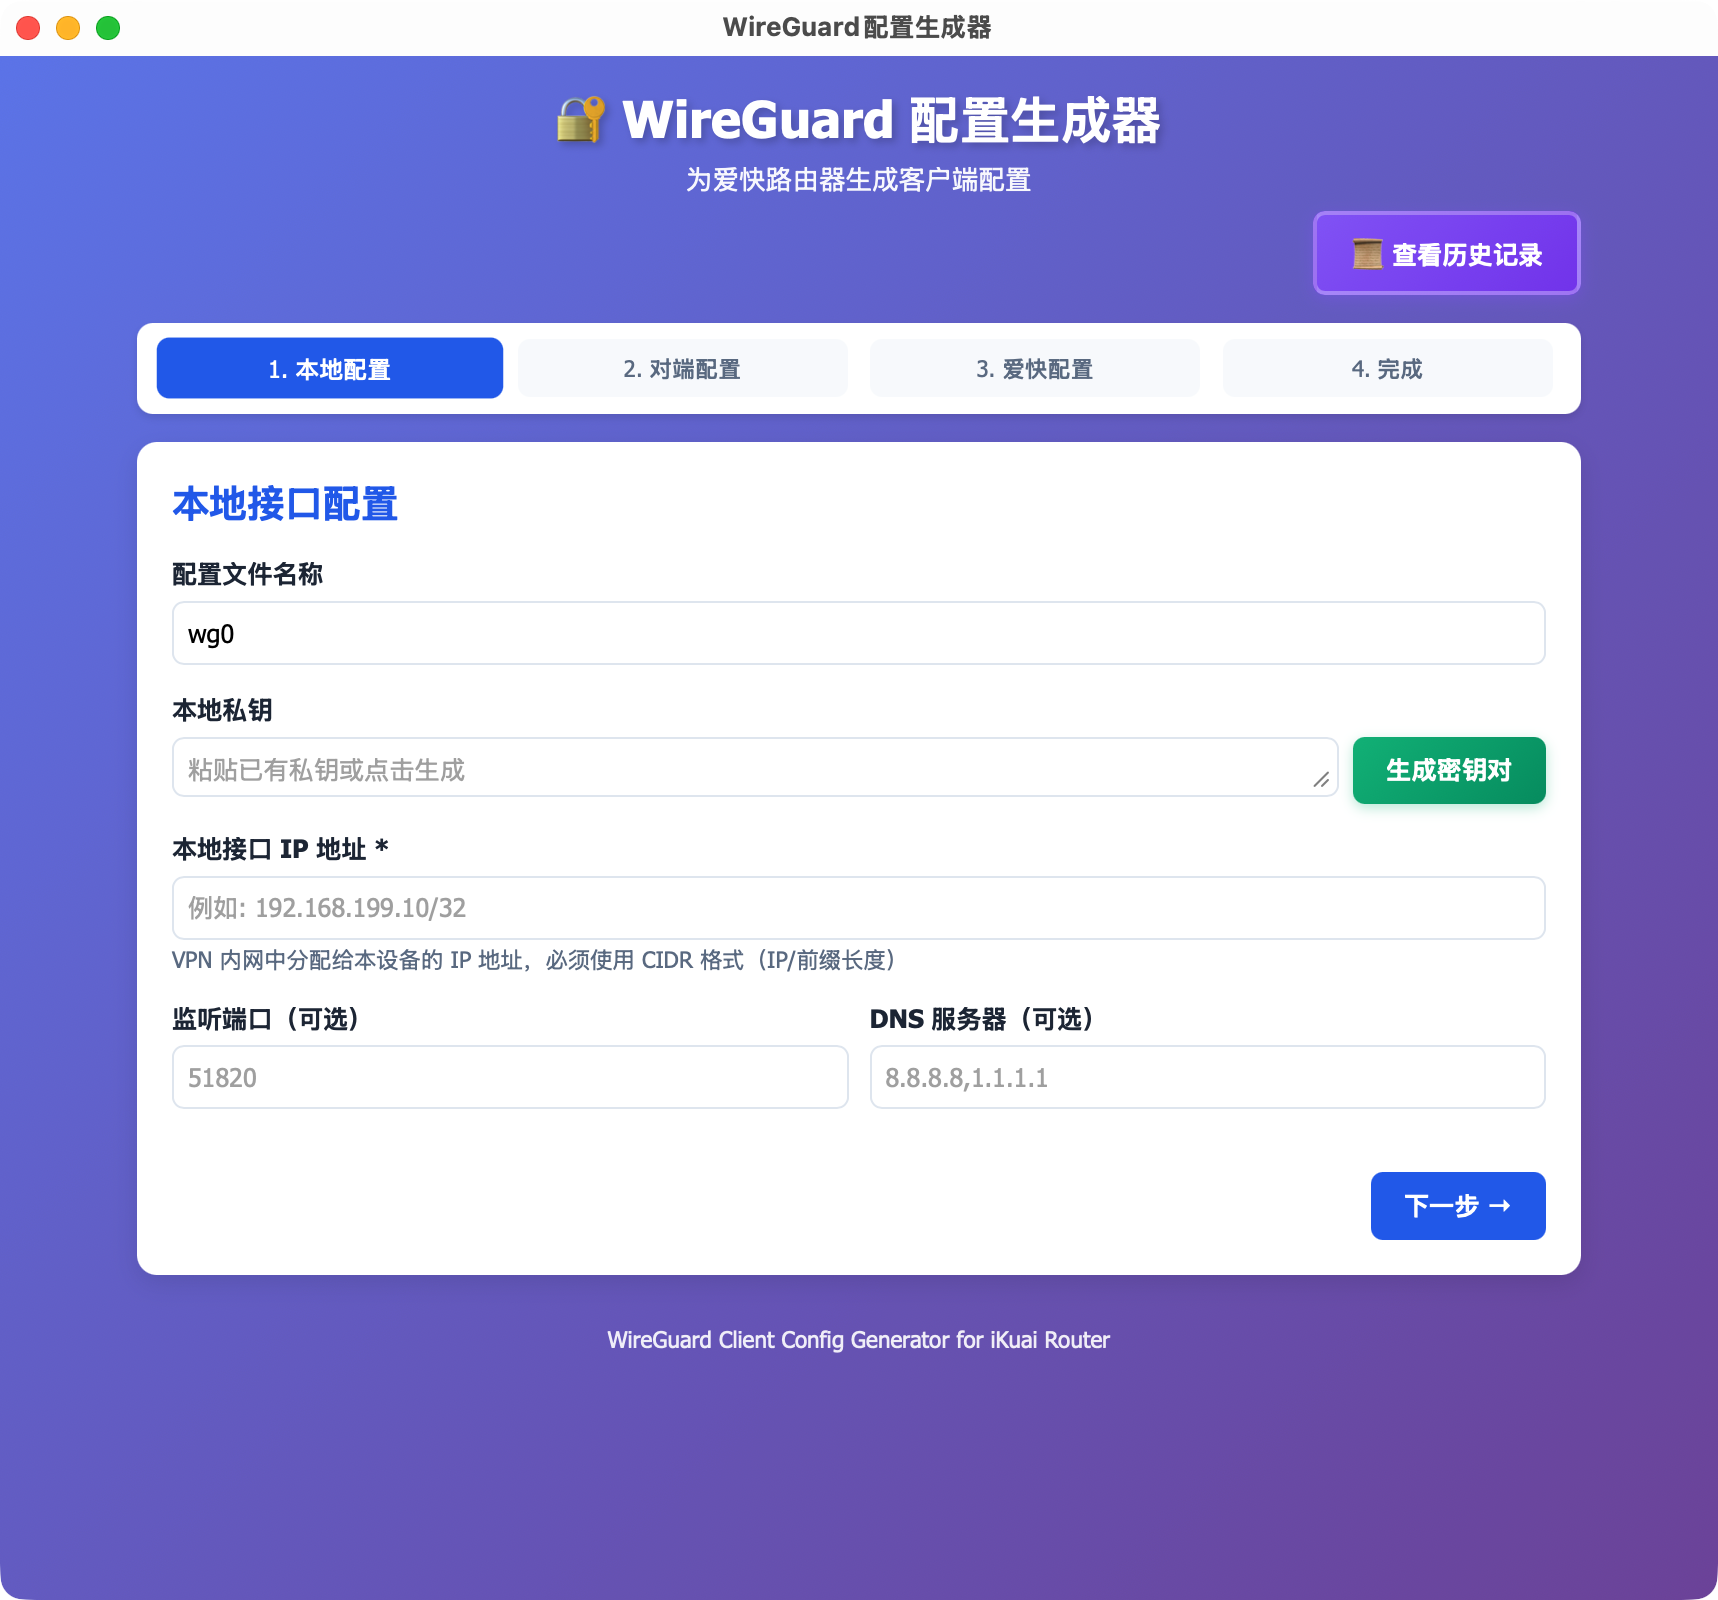
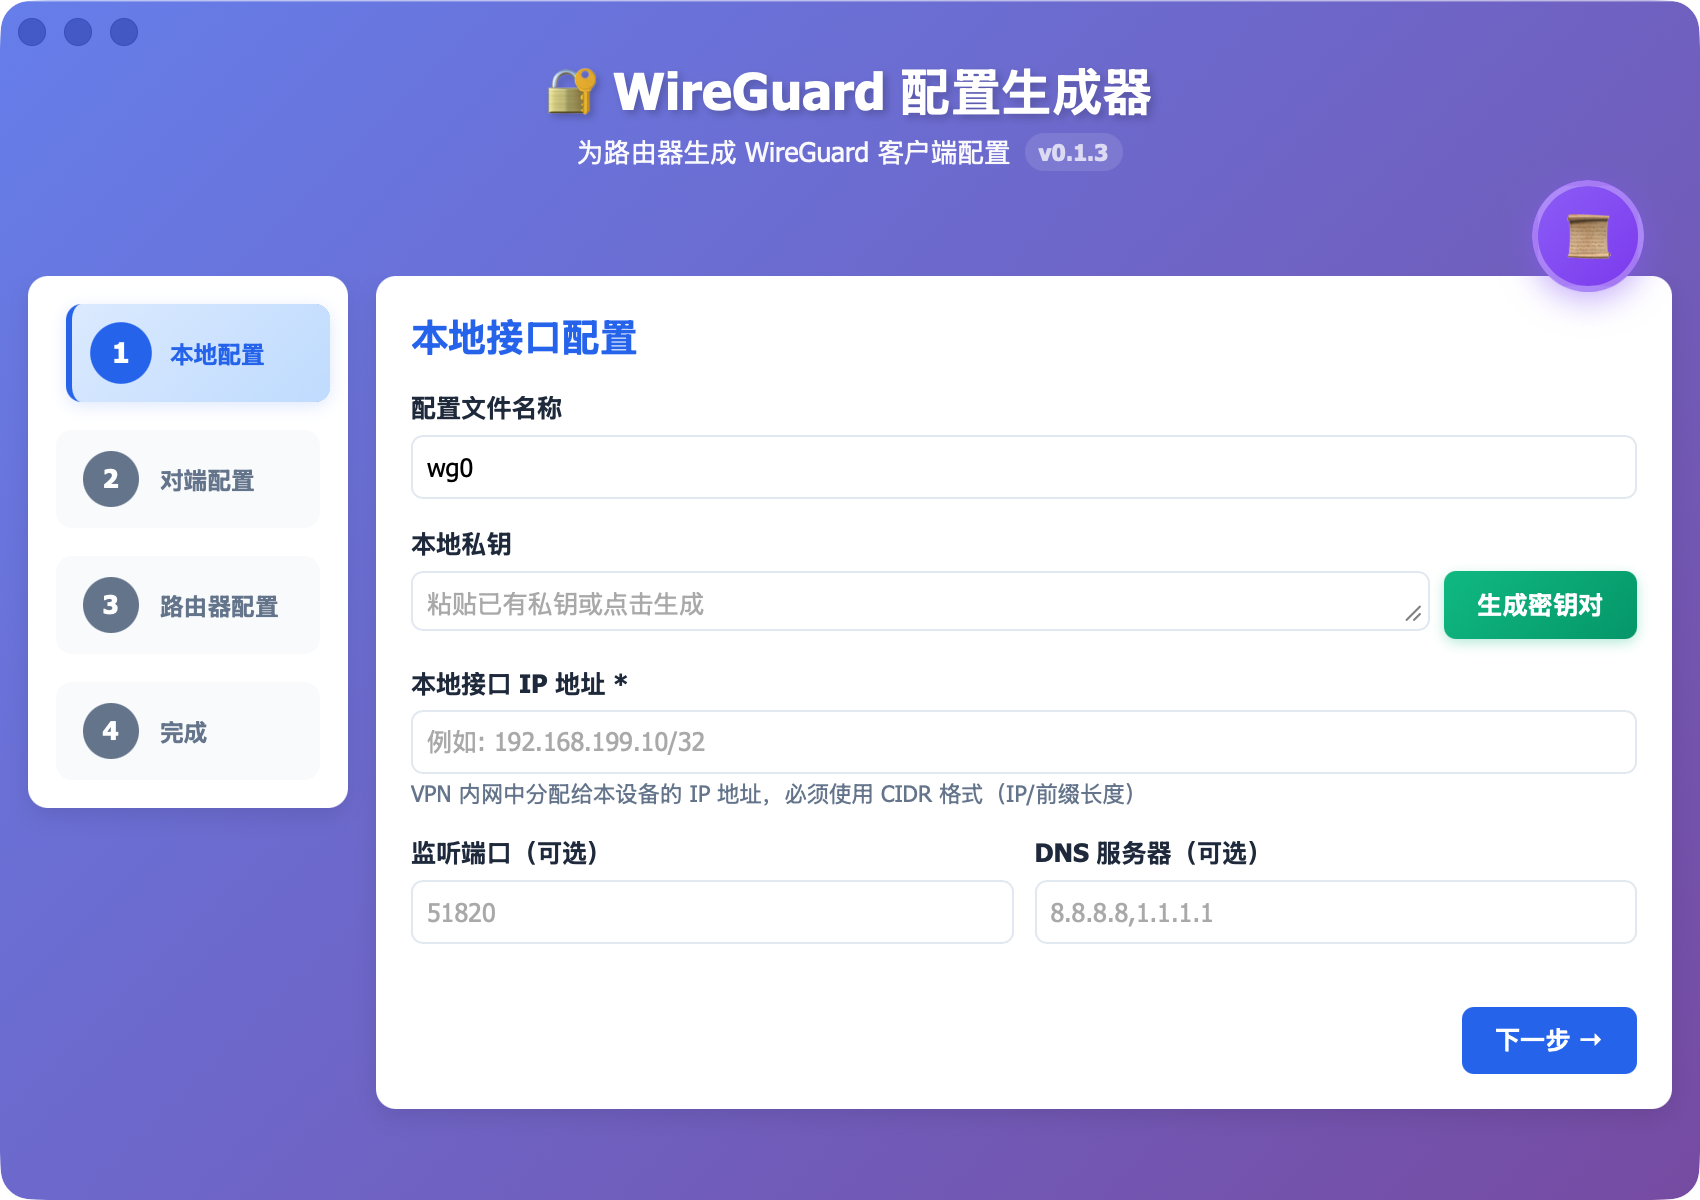
feat(readme): 更新 README 文档内容与截图展示方式
- 使用 <details> 标签折叠显示应用界面截图，提升文档可读性
- 补充 Surge 配置支持说明及多平台配置展示逻辑
- 更新技术栈、功能说明和目录结构描述
- 添加更新日志，记录新增功能与界面优化细节
- 引入对 OpenWrt 路由器的支持说明及 Surge 客户端配置示例

refactor(ui): 重构主界面布局并优化移动端响应式表现

- 主界面调整为左右布局（桌面端）/上下布局（移动端）
- 历史记录按钮改为右上角浮动设计，优化空间利用
- 引入标签页导航用于切换查看不同平台配置
- 添加 Toast 消息提示系统，改善用户交互反馈

feat(config): 支持生成 Surge VPN 客户端专用配置

- 新增 Surge 配置格式生成逻辑
- 在历史记录中支持查看和导出 Surge 配置
- ZIP 打包导出功能扩展至包含所有平台配置文件

refactor(component): 历史记录模块组件化拆分

- 将历史记录相关 UI 和逻辑抽取为独立组件 HistoryView.jsx
- 提升代码结构清晰度与可维护性

chore(tauri): 调整窗口最小高度以增强兼容性

- 修改 tauri.conf.json 中 minHeight 从 800 到 600
- 提高在小屏幕设备上的可用性

diff --git a/README.md b/README.md
@@ -2,19 +2,27 @@
 
 一个基于 Tauri 2 + React 19 构建的桌面应用程序，用于快速生成 WireGuard 客户端配置，支持爱快（iKuai）和 OpenWrt 等路由器系统。
 
-![应用界面预览](./screens/1.png)
+<details>
+<summary>📸 查看应用界面截图</summary>
+
+![配置生成界面](./screens/1.png)
+![历史记录界面](./screens/2.png)
+![配置详情界面](./screens/3.png)
+
+</details>
 
 ## ✨ 特性
 
 - 📦 **跨平台桌面应用** - 基于 Tauri 2，支持 macOS、Windows、Linux
 - 🔑 **密钥管理** - 一键生成 WireGuard 密钥对和预共享密钥（PSK）
-- 📄 **配置生成** - 同时生成标准 WireGuard 配置和路由器 Peer 配置
+- 📄 **配置生成** - 同时生成标准 WireGuard 配置、Surge 配置和路由器 Peer 配置
 - 🌐 **多路由器支持** - 支持爱快路由器（可直接导入 Peer）和 OpenWrt（提供参考配置）
+- 🚀 **多客户端支持** - 同时支持标准 WireGuard 客户端和 Surge VPN 客户端
 - 📱 **二维码导入** - 自动生成配置二维码，支持移动设备快速导入
 - 💾 **配置持久化** - 自动保存对端配置，下次无需重复输入
-- 📜 **历史记录** - 保存所有生成的配置，支持查看、导出、删除
+- 📜 **历史记录** - 保存所有生成的配置，支持标签页切换查看不同平台配置
 - 📦 **批量导出** - 支持导出单个配置或将所有配置打包为 ZIP
-- 🎨 **友好界面** - 分步骤向导式操作，清晰直观
+- 🎨 **友好界面** - 分步骤向导式操作，左右布局清晰直观，响应式设计支持移动端
 
 ## 🛠 技术栈
 
@@ -103,7 +111,16 @@ yarn tauri build
 
 ### 步骤 4: 生成完成
 
-- **WireGuard 配置文件** - 可保存为 `.conf` 文件或扫码导入
+应用会同时生成多种配置格式，通过标签页切换查看：
+
+- **WireGuard 配置** - 标准 WireGuard 客户端配置文件
+  - 可保存为 `.conf` 文件
+  - 支持扫码导入到移动设备
+
+- **Surge 配置** - Surge VPN 客户端专用配置
+  - 可保存为 `.conf` 文件
+  - 支持直接导入到 Surge iOS/macOS 客户端
+
 - **路由器 Peer 配置** - 可保存为 `.txt` 文件
   - **爱快路由器**：可直接在 Peer 管理界面导入
   - **OpenWrt**：需手动添加 Peer（参考配置中的参数）
@@ -114,6 +131,7 @@ yarn tauri build
 .
 ├── src/                    # React 前端代码
 │   ├── App.jsx            # 主应用组件
+│   ├── HistoryView.jsx    # 历史记录组件
 │   ├── main.jsx           # React 入口文件
 │   ├── ConfirmDialog.jsx  # 确认对话框组件
 │   └── App.css            # 样式文件
@@ -173,6 +191,14 @@ cargo clippy
 
 ## 📝 功能说明
 
+### 界面设计
+
+- **左右布局**：左侧为垂直步骤指示器，右侧为主要表单内容，操作流程清晰直观
+- **响应式设计**：移动端自动切换为上下布局，适配小屏幕设备
+- **浮动操作按钮**：历史记录按钮设计为右上角浮动按钮，不占用主界面空间
+- **Toast 消息提示**：采用悬浮式通知，提供更好的视觉反馈
+- **标签页导航**：配置生成后通过标签页切换查看不同平台配置，界面简洁
+
 ### 密钥生成
 
 - **WireGuard 密钥对**：基于 X25519 算法生成私钥和公钥
@@ -194,10 +220,12 @@ cargo clippy
 ### 历史记录
 
 - 自动保存每次生成的配置
+- 支持标签页切换查看 WireGuard、Surge、爱快等不同平台配置
 - 支持查看、导出、删除单条记录
-- 支持导出所有配置为 ZIP 压缩包
+- 支持导出所有配置为 ZIP 压缩包（包含所有平台配置文件）
 - 支持导出所有 Peer 配置为单个文本文件
 - 支持清空所有数据（包括配置和历史记录）
+- 浮动按钮设计，不占用主界面空间
 
 ### 配置格式
 
@@ -217,6 +245,17 @@ AllowedIPs = 0.0.0.0/0, ::/0
 PersistentKeepalive = 25
 ```
 
+#### Surge WireGuard 配置（.conf）
+```
+[WireGuard wg0]
+private-key = xxx
+self-ip = 192.168.199.10
+dns-server = 8.8.8.8
+mtu = 1280
+peer = (public-key = xxx, preshared-key = xxx, allowed-ips = "0.0.0.0/0, ::/0", endpoint = example.com:51820, keepalive = 25)
+```
+> 注：此格式适用于 Surge iOS/macOS 客户端。可在 Surge 配置文件中直接使用，或作为独立配置片段导入。
+
 #### 路由器 Peer 配置（.txt）
 ```
 id=1 enabled=yes comment=iPhone interface=wg_0 peer_publickey=xxx presharedkey=xxx allowips=192.168.199.10/32 endpoint= endpoint_port= keepalive=25
@@ -231,11 +270,26 @@ id=1 enabled=yes comment=iPhone interface=wg_0 peer_publickey=xxx presharedkey=x
 
 MIT License
 
+## 📋 更新日志
+
+### 最新更新 (2025-10-13)
+
+- ✨ **新增 Surge 配置支持** - 支持生成 Surge VPN 客户端专用的 WireGuard 配置
+- 🌐 **OpenWrt 路由器支持** - 扩展支持 OpenWrt 路由器系统，不再仅限于爱快
+- 🎨 **UI/UX 全面优化**
+  - 重构主界面为左右布局（桌面端）/ 上下布局（移动端）
+  - 历史记录按钮改为右上角浮动设计
+  - 引入 Toast 消息提示系统
+  - 标签页导航支持切换查看不同平台配置
+- 🔧 **组件化重构** - 历史记录界面抽离为独立组件 `HistoryView`
+- 📦 **历史记录增强** - 支持保存和导出 Surge 配置，ZIP 打包包含所有平台配置
+
 ## 🙏 致谢
 
 - [WireGuard](https://www.wireguard.com/) - 现代 VPN 协议
 - [Tauri](https://tauri.app/) - 轻量级桌面应用框架
 - [React](https://react.dev/) - UI 框架
+- [Surge](https://nssurge.com/) - 强大的网络调试工具
 - [爱快路由器](https://www.ikuai8.com/) - 企业级路由系统
 - [OpenWrt](https://openwrt.org/) - 开源路由器固件
 
